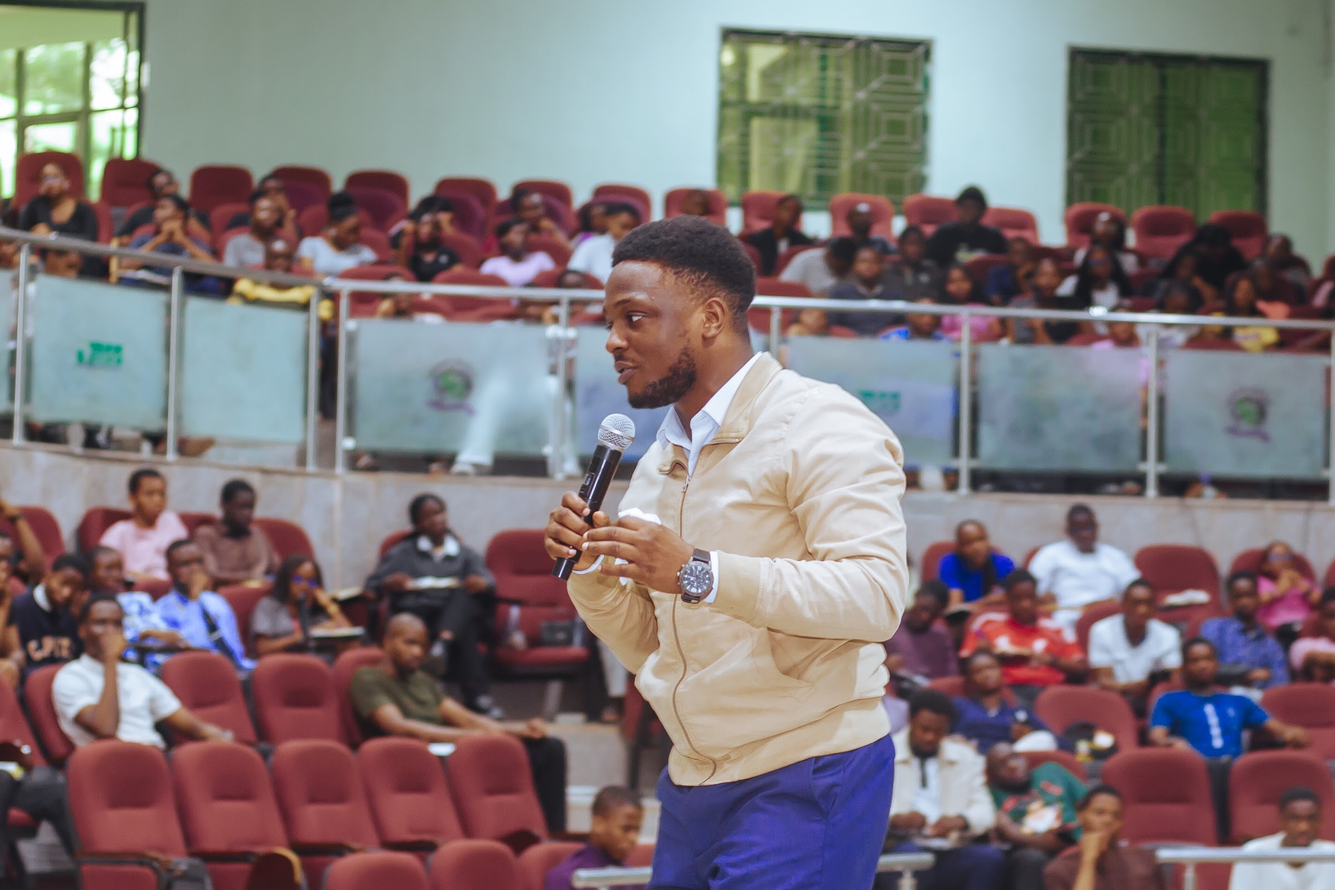
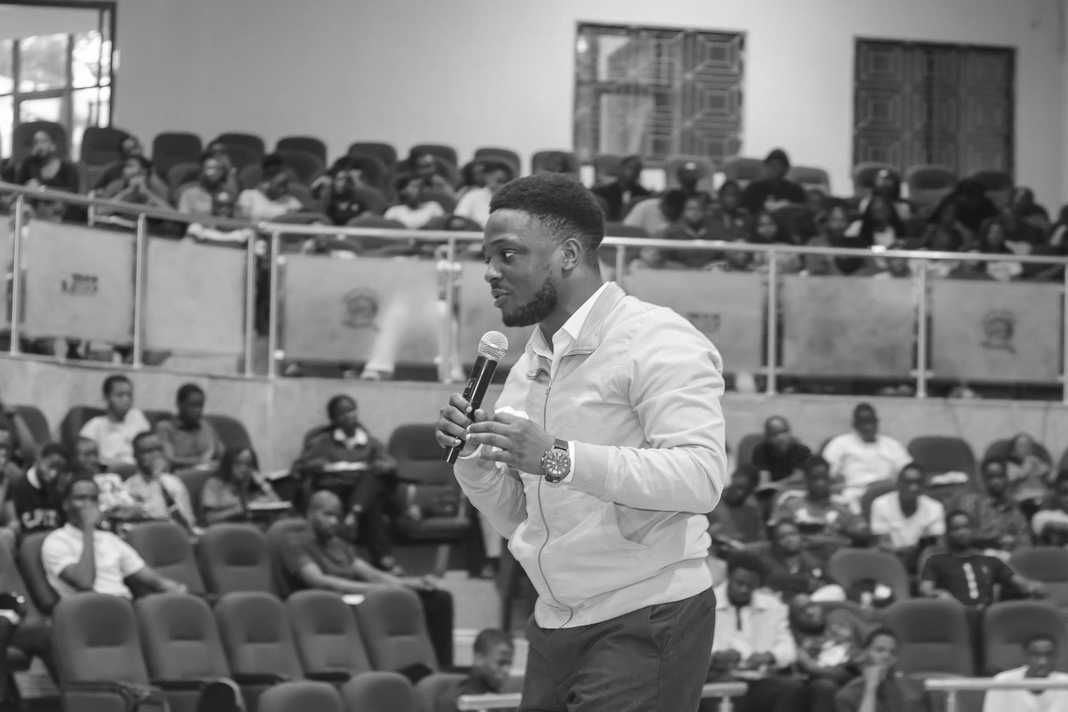
Bookings via Google Sheet + email script; SEO pass
Booking form now posts to a Google Apps Script that logs each request
to a sheet and emails both inboxes (FormSubmit was slow and unactivated).
Adds titles, descriptions, Person/WebSite schema, breadcrumbs, sitemap,
robots.txt, 404 page, image alt text and lighter greyscale images.

diff --git a/index.html b/index.html
@@ -3,15 +3,28 @@
 <head>
 <meta charset="utf-8">
 <meta name="viewport" content="width=device-width, initial-scale=1">
-<title>Bolu Okunade · Business Strategist &amp; Speaker</title>
-<meta name="description" content="Bolu Okunade is a business strategist and speaker shaping how Africa does business. Convener of The Incubator Sessions.">
+<title>Bolu Okunade | Business Strategist &amp; Keynote Speaker</title>
+<meta name="description" content="Bolu Okunade is a business strategist, 2x TEDx speaker and convener of The Incubator Sessions, reaching 100,000+ business owners. Book Bolu to speak at your event.">
+<meta name="author" content="Bolu Okunade">
+<meta name="robots" content="index, follow, max-image-preview:large">
 <link rel="canonical" href="https://boluokunade.com/">
-<meta property="og:type" content="website">
+<meta property="og:type" content="profile">
+<meta property="og:site_name" content="Bolu Okunade">
+<meta property="og:locale" content="en_US">
 <meta property="og:url" content="https://boluokunade.com/">
-<meta property="og:title" content="Bolu Okunade · Business Strategist &amp; Speaker">
-<meta property="og:description" content="Shaping how Africa does business.">
+<meta property="og:title" content="Bolu Okunade | Business Strategist &amp; Keynote Speaker">
+<meta property="og:description" content="Shaping how Africa does business. 2x TEDx speaker. 100K+ business owners reached.">
 <meta property="og:image" content="https://boluokunade.com/img/og.jpg">
+<meta property="og:image:width" content="1200">
+<meta property="og:image:height" content="630">
+<meta property="og:image:alt" content="Bolu Okunade, business strategist and speaker">
+<meta property="profile:first_name" content="Bolu">
+<meta property="profile:last_name" content="Okunade">
 <meta name="twitter:card" content="summary_large_image">
+<meta name="twitter:title" content="Bolu Okunade | Business Strategist &amp; Keynote Speaker">
+<meta name="twitter:description" content="Shaping how Africa does business. 2x TEDx speaker. 100K+ business owners reached.">
+<meta name="twitter:image" content="https://boluokunade.com/img/og.jpg">
+<link rel="preload" as="image" href="img/hero-stage.jpg" fetchpriority="high">
 <meta name="theme-color" content="#0E0D0C">
 <link rel="icon" href="img/mark-dark.svg" type="image/svg+xml">
 <link rel="apple-touch-icon" href="img/apple-touch-icon.png">
@@ -19,7 +32,17 @@
 <link rel="preconnect" href="https://fonts.gstatic.com" crossorigin>
 <link href="https://fonts.googleapis.com/css2?family=Anton&family=Playfair+Display:ital,wght@0,400;0,500;1,400;1,500&family=Poppins:wght@300;400;500;600;700&display=swap" rel="stylesheet">
 <script type="application/ld+json">
-{"@context":"https://schema.org","@type":"Person","name":"Bolu Okunade","url":"https://boluokunade.com/","jobTitle":"Business Strategist and Speaker","sameAs":["https://www.instagram.com/boluokunade/","https://www.facebook.com/theboluokunade","https://www.youtube.com/@boluokunade"]}
+{"@context":"https://schema.org","@graph":[
+ {"@type":"Person","@id":"https://boluokunade.com/#bolu","name":"Bolu Okunade","url":"https://boluokunade.com/",
+  "image":"https://boluokunade.com/img/bw-standing-smile.jpg","jobTitle":"Business Strategist and Keynote Speaker",
+  "description":"Business strategist and 2x TEDx speaker shaping how Africa does business. Convener of The Incubator Sessions.",
+  "knowsAbout":["Business strategy","Distribution","Sales","Pricing","Marketing","Entrepreneurship","Small business growth"],
+  "sameAs":["https://www.instagram.com/boluokunade/","https://www.facebook.com/theboluokunade","https://www.youtube.com/@boluokunade"]},
+ {"@type":"WebSite","@id":"https://boluokunade.com/#site","url":"https://boluokunade.com/","name":"Bolu Okunade","publisher":{"@id":"https://boluokunade.com/#bolu"},"inLanguage":"en"},
+ {"@type":"EducationalOrganization","@id":"https://boluokunade.com/incubator-sessions/#org","name":"The Incubator Sessions","url":"https://boluokunade.com/incubator-sessions/",
+  "description":"Free monthly live business sessions with Bolu Okunade for founders and business owners.","founder":{"@id":"https://boluokunade.com/#bolu"}},
+ {"@type":"ProfilePage","url":"https://boluokunade.com/","name":"Bolu Okunade | Business Strategist & Keynote Speaker","mainEntity":{"@id":"https://boluokunade.com/#bolu"},"isPartOf":{"@id":"https://boluokunade.com/#site"}}
+]}
 </script>
 <style>
 :root{
@@ -228,11 +251,11 @@ footer h2 em{color:var(--gold)}
 
 <section class="about" id="about">
   <div class="wrap">
-    <img class="rv" src="img/bw-standing-smile.jpg" alt="Bolu Okunade" loading="lazy">
+    <img class="rv" src="img/bw-standing-smile.jpg" alt="Portrait of Bolu Okunade, business strategist" loading="lazy">
     <div class="rv">
       <div class="caps label">About</div>
       <h2 class="display">The business mind in <em>the room.</em></h2>
-      <p>Bolu Okunade is a business strategist and speaker. He helps founders and business owners master what decides whether a business wins: distribution, sales, pricing and focus.</p>
+      <p>Bolu Okunade is a business strategist and speaker. He helps founders and business owners master what decides whether a business wins: distribution, sales, pricing and focus. Through The Incubator Sessions, his free monthly masterclass, he teaches thousands of business owners how to build businesses that last.</p>
     </div>
   </div>
 </section>
@@ -250,10 +273,10 @@ footer h2 em{color:var(--gold)}
       <div><div class="caps label">The work</div><h2 class="display">One mission. <em>Four rooms.</em></h2></div>
     </div>
     <div class="grid4 rv">
-      <a class="role" href="booking/"><img src="img/bw-flipchart-hand-raised.jpg" alt="" loading="lazy" style="object-position:62% 50%"><div><span class="caps">01</span><h3>Strategist</h3><p>Advising business owners on growth.</p></div></a>
-      <a class="role" href="booking/"><img src="img/stage-cream-gesture.jpg" alt="" loading="lazy"><div><span class="caps">02</span><h3>Speaker</h3><p>Keynotes, panels and workshops.</p></div></a>
-      <a class="role" href="incubator-sessions/"><img src="img/bw-reaching-dramatic.jpg" alt="" loading="lazy" style="object-position:42% 50%"><div><span class="caps">03</span><h3>Convener</h3><p>The Incubator Sessions, every month.</p></div></a>
-      <a class="role" href="https://www.instagram.com/boluokunade/" target="_blank" rel="noopener"><img src="img/panel-mic-purple.jpg" alt="" loading="lazy"><div><span class="caps">04</span><h3>Voice</h3><p>Business ideas for a global audience.</p></div></a>
+      <a class="role" href="booking/"><img src="img/bw-flipchart-hand-raised.jpg" alt="Bolu Okunade advising business owners at a flipchart" loading="lazy" style="object-position:62% 50%"><div><span class="caps">01</span><h3>Strategist</h3><p>Advising business owners on growth.</p></div></a>
+      <a class="role" href="booking/"><img src="img/stage-cream-gesture.jpg" alt="Bolu Okunade giving a keynote on stage" loading="lazy"><div><span class="caps">02</span><h3>Speaker</h3><p>Keynotes, panels and workshops.</p></div></a>
+      <a class="role" href="incubator-sessions/"><img src="img/bw-reaching-dramatic.jpg" alt="Bolu Okunade teaching at The Incubator Sessions" loading="lazy" style="object-position:42% 50%"><div><span class="caps">03</span><h3>Convener</h3><p>The Incubator Sessions, every month.</p></div></a>
+      <a class="role" href="https://www.instagram.com/boluokunade/" target="_blank" rel="noopener"><img src="img/panel-mic-purple.jpg" alt="Bolu Okunade speaking on a business panel" loading="lazy"><div><span class="caps">04</span><h3>Voice</h3><p>Business ideas for a global audience.</p></div></a>
     </div>
   </div>
 </section>
@@ -261,7 +284,7 @@ footer h2 em{color:var(--gold)}
 <section class="anat">
   <div class="anat-stage" id="stage">
     <div class="anat-head"><div class="wrap"><div class="caps label">The framework</div><h2 class="display">Everything around <em>the product.</em></h2></div></div>
-    <div class="anat-fig" id="fig"><img src="img/cut-portrait-confident-flipchart.webp" alt="Bolu Okunade"></div>
+    <div class="anat-fig" id="fig"><img src="img/cut-portrait-confident-flipchart.webp" alt="Bolu Okunade explaining his business framework"></div>
     <svg class="anat-svg" id="svg"></svg>
     <div class="lbl" data-ax=".50" data-ay=".07"><b>Product</b></div>
     <div class="lbl" data-ax=".30" data-ay=".30"><b>Distribution</b></div>

diff --git a/booking/index.html b/booking/index.html
@@ -3,11 +3,23 @@
 <head>
 <meta charset="utf-8">
 <meta name="viewport" content="width=device-width, initial-scale=1">
-<title>Book Bolu Okunade</title>
-<meta name="description" content="Book Bolu Okunade, business strategist and 2x TEDx speaker, for your conference, company or community.">
+<title>Book Bolu Okunade | Keynote Speaker &amp; Business Strategist</title>
+<meta name="description" content="Book Bolu Okunade, business strategist and 2x TEDx speaker, for keynotes, panels, workshops and team trainings at your conference, company or community event.">
 <meta property="og:title" content="Book Bolu Okunade">
 <meta property="og:description" content="Keynotes, panels, workshops and team trainings.">
 <meta property="og:image" content="https://boluokunade.com/img/og.jpg">
+<link rel="canonical" href="https://boluokunade.com/booking/">
+<meta name="robots" content="index, follow, max-image-preview:large">
+<meta property="og:type" content="website">
+<meta property="og:site_name" content="Bolu Okunade">
+<meta property="og:url" content="https://boluokunade.com/booking/">
+<meta name="twitter:card" content="summary_large_image">
+<meta name="twitter:title" content="Book Bolu Okunade">
+<meta name="twitter:description" content="Keynotes, panels, workshops and team trainings.">
+<meta name="twitter:image" content="https://boluokunade.com/img/og.jpg">
+<script type="application/ld+json">
+{"@context":"https://schema.org","@type":"BreadcrumbList","itemListElement":[{"@type":"ListItem","position":1,"name":"Home","item":"https://boluokunade.com/"},{"@type":"ListItem","position":2,"name":"Book Bolu","item":"https://boluokunade.com/booking/"}]}
+</script>
 <meta name="theme-color" content="#0E0D0C">
 <link rel="icon" href="../img/mark-dark.svg" type="image/svg+xml">
 <link rel="preconnect" href="https://fonts.googleapis.com">
@@ -47,7 +59,7 @@
       <form id="form" novalidate>
         <h2>Event details</h2>
         <p class="sub">Tell us about your event. Bolu's team will get back to you.</p>
-        <input class="hp" type="text" name="_honey" tabindex="-1" autocomplete="off" aria-hidden="true">
+        <input class="hp" type="text" name="_honey" aria-label="Leave empty" tabindex="-1" autocomplete="off" aria-hidden="true">
 
         <fieldset>
           <legend>About you</legend>
@@ -124,8 +136,9 @@
 </footer>
 
 <script>
-// Booking requests are emailed by FormSubmit to the main inbox, with a copy to the second one.
-const TO = 'bolex2009@gmail.com', CC = 'info@boluokunade.com';
+// Booking requests go to a Google Apps Script ("Website booking emails" in boluokunade.adm@gmail.com's Drive),
+// which adds a row to the "Booking requests - boluokunade.com" sheet and emails bolex2009@gmail.com and info@boluokunade.com.
+const SCRIPT_URL = 'https://script.google.com/macros/s/AKfycbxy_EHmBUrSCMU8Kr7Dqgx9Bl5hw4Lb_JgFvkrtEoCcEPqjrMsXY6K5Gse7lT5xioHbSg/exec';
 const form = document.getElementById('form'), err = document.getElementById('err'), send = document.getElementById('send');
 
 function fail(msg, el) { err.textContent = msg; err.classList.add('on'); if (el) el.scrollIntoView({ block: 'center', behavior: 'smooth' }); }
@@ -143,17 +156,12 @@ form.addEventListener('submit', async e => {
   const data = Object.fromEntries(new FormData(form));
   if (data._honey) return;
   delete data._honey;
-  Object.assign(data, {
-    _subject: 'Booking request: ' + data['Event name'] + ' (' + data['Organisation'] + ')',
-    _cc: CC, _replyto: data.Email, _template: 'table'
-  });
   send.disabled = true; send.textContent = 'Sending...';
   try {
-    const r = await fetch('https://formsubmit.co/ajax/' + TO, {
-      method: 'POST', headers: { 'Content-Type': 'application/json', Accept: 'application/json' }, body: JSON.stringify(data)
-    });
+    // text/plain keeps this a "simple" request, so the browser skips the CORS preflight Apps Script can't answer.
+    const r = await fetch(SCRIPT_URL, { method: 'POST', headers: { 'Content-Type': 'text/plain;charset=utf-8' }, body: JSON.stringify(data) });
     const j = await r.json().catch(() => ({}));
-    if (!r.ok || String(j.success) === 'false') throw new Error(j.message || r.status);
+    if (!r.ok || !j.ok) throw new Error(r.status);
     form.style.display = 'none';
     document.getElementById('done').classList.add('on');
     scrollTo({ top: 0, behavior: 'smooth' });

diff --git a/incubator-sessions/index.html b/incubator-sessions/index.html
@@ -3,11 +3,23 @@
 <head>
 <meta charset="utf-8">
 <meta name="viewport" content="width=device-width, initial-scale=1">
-<title>The Incubator Sessions · Register free</title>
+<title>The Incubator Sessions | Free Monthly Business Masterclass with Bolu Okunade</title>
 <meta name="description" content="Join The Incubator Sessions with Bolu Okunade: a free, live session every month with practical strategy, live Q&A and real answers to your business problems.">
 <meta property="og:title" content="The Incubator Sessions with Bolu Okunade">
 <meta property="og:description" content="Free. Monthly. Deep. Register to save your spot.">
 <meta property="og:image" content="https://boluokunade.com/img/og.jpg">
+<link rel="canonical" href="https://boluokunade.com/incubator-sessions/">
+<meta name="robots" content="index, follow, max-image-preview:large">
+<meta property="og:type" content="website">
+<meta property="og:site_name" content="Bolu Okunade">
+<meta property="og:url" content="https://boluokunade.com/incubator-sessions/">
+<meta name="twitter:card" content="summary_large_image">
+<meta name="twitter:title" content="The Incubator Sessions with Bolu Okunade">
+<meta name="twitter:description" content="Free. Monthly. Deep. Register to save your spot.">
+<meta name="twitter:image" content="https://boluokunade.com/img/og.jpg">
+<script type="application/ld+json">
+{"@context":"https://schema.org","@type":"BreadcrumbList","itemListElement":[{"@type":"ListItem","position":1,"name":"Home","item":"https://boluokunade.com/"},{"@type":"ListItem","position":2,"name":"The Incubator Sessions","item":"https://boluokunade.com/incubator-sessions/"}]}
+</script>
 <meta name="theme-color" content="#0E0D0C">
 <link rel="icon" href="../img/mark-dark.svg" type="image/svg+xml">
 <link rel="preconnect" href="https://fonts.googleapis.com">

diff --git a/404.html b/404.html
@@ -1,0 +1,41 @@
+<!doctype html>
+<html lang="en">
+<head>
+<meta charset="utf-8">
+<meta name="viewport" content="width=device-width, initial-scale=1">
+<title>Page not found | Bolu Okunade</title>
+<meta name="robots" content="noindex">
+<meta name="theme-color" content="#0E0D0C">
+<link rel="icon" href="/img/mark-dark.svg" type="image/svg+xml">
+<link rel="preconnect" href="https://fonts.googleapis.com">
+<link rel="preconnect" href="https://fonts.gstatic.com" crossorigin>
+<link href="https://fonts.googleapis.com/css2?family=Anton&family=Playfair+Display:ital,wght@0,400;1,400&family=Poppins:wght@400;500;600&display=swap" rel="stylesheet">
+<link rel="stylesheet" href="/css/site.css">
+<style>
+.lost{min-height:100vh;display:flex;align-items:center;padding:140px 0 80px}
+.lost h1{font-size:clamp(70px,12vw,180px);margin-bottom:26px}
+.lost h1 em{color:var(--gold);display:block;font-size:.5em}
+.lost p{color:rgba(242,238,232,.7);max-width:460px;margin-bottom:34px}
+.lost .ctas{display:flex;gap:14px;flex-wrap:wrap}
+</style>
+</head>
+<body>
+<nav>
+  <div class="wrap">
+    <a class="wm" href="/">Bolu Okunade</a>
+    <div class="links caps"><a class="btn btn-line" href="/booking/">Book Bolu</a></div>
+  </div>
+</nav>
+<main class="lost">
+  <div class="wrap">
+    <div class="caps label">404</div>
+    <h1 class="display">Wrong room. <em>Let's get you back.</em></h1>
+    <p>This page doesn't exist. Here's where you probably meant to go.</p>
+    <div class="ctas">
+      <a class="btn btn-gold" href="/">Home</a>
+      <a class="btn btn-line" href="/incubator-sessions/">The Incubator Sessions</a>
+    </div>
+  </div>
+</main>
+</body>
+</html>
